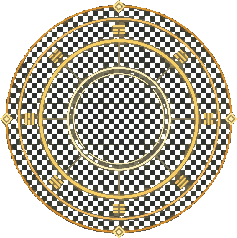
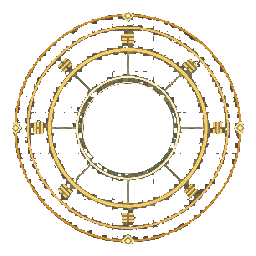
fix: strip fake-transparency checkerboard from cultivator_halo
PixelLab rendered transparent areas as near-black opaque pixels forming a
checkerboard pattern instead of alpha=0. Added a post-processing pass to
gen_ui.py (strip_dark_neutral flag) that removes dark near-neutral pixels
(max channel < 90, warmth < 20) while preserving warm gold/amber ring content.
Also applies a circle mask: hollow centre (r < 45px) and exterior (r > 116px)
are wiped to fully transparent.

Re-saved public/ui/cultivator_halo.png with the clean alpha channel.

diff --git a/scripts/gen_ui.py b/scripts/gen_ui.py
@@ -636,6 +636,13 @@ ELEMENTS = {
     # cultivator tier. Must be radially symmetric so CSS rotation is seamless.
     "cultivator_halo": {
         "size": (256, 256),
+        "strip_dark_neutral": True,
+        "strip_dark_neutral_kwargs": {
+            "max_thresh": 90,   # max channel < 90 = dark pixel
+            "warmth_thresh": 20, # max-min < 20 = neutral (not warm gold)
+            "center_r": 45,      # wipe hollow centre (< 45 px from centre)
+            "exterior_r": 116,   # wipe exterior (> 116 px from centre)
+        },
         "desc": (
             "Divine cultivation formation circle, xianxia VFX overlay, pixel art, top-down. "
             "256x256 RGBA. Radially symmetric. "
@@ -993,6 +1000,43 @@ def run_finalize(element_id, cand_n):
     # Carve a transparent channel into a solid bar (when model filled in the interior)
     if cfg.get("carve_channel"):
         img = carve_bar_channel(img, **cfg.get("carve_channel_kwargs", {}))
+
+    # Strip dark-neutral fake-transparency artefacts for halo / VFX overlays.
+    # PixelLab sometimes renders the "transparent" background as a near-black
+    # checkerboard of opaque pixels instead of real alpha=0. For elements with
+    # strip_dark_neutral=True we remove any opaque pixel whose warmth (max-min
+    # channel spread) is below the threshold — preserving warm gold/amber content
+    # while erasing neutral dark background squares. Optionally, a circle mask
+    # (center_r / exterior_r in px from image centre) punches out the hollow
+    # centre and clips the exterior to a clean disc edge.
+    if cfg.get("strip_dark_neutral"):
+        import math as _math
+        opts       = cfg.get("strip_dark_neutral_kwargs", {})
+        max_thresh = opts.get("max_thresh", 90)
+        warmth_thresh = opts.get("warmth_thresh", 20)
+        center_r   = opts.get("center_r", None)
+        exterior_r = opts.get("exterior_r", None)
+        w2, h2 = img.size
+        px2 = img.load()
+        removed = 0
+        cxp, cyp = w2 // 2, h2 // 2
+        for yy in range(h2):
+            for xx in range(w2):
+                pr, pg, pb, pa = px2[xx, yy]
+                if pa == 0:
+                    continue
+                dist = _math.sqrt((xx - cxp) ** 2 + (yy - cyp) ** 2)
+                if (center_r   and dist < center_r)   or \
+                   (exterior_r and dist > exterior_r):
+                    px2[xx, yy] = (pr, pg, pb, 0)
+                    removed += 1
+                    continue
+                max_c   = max(pr, pg, pb)
+                warmth  = max_c - min(pr, pg, pb)
+                if max_c < max_thresh and warmth < warmth_thresh:
+                    px2[xx, yy] = (pr, pg, pb, 0)
+                    removed += 1
+        print(f"  Stripped {removed} dark-neutral bg pixels")
 
     # Optional per-config composite through the canonical badge frame.
     # Default off: with style_image-based generation the model already echoes
